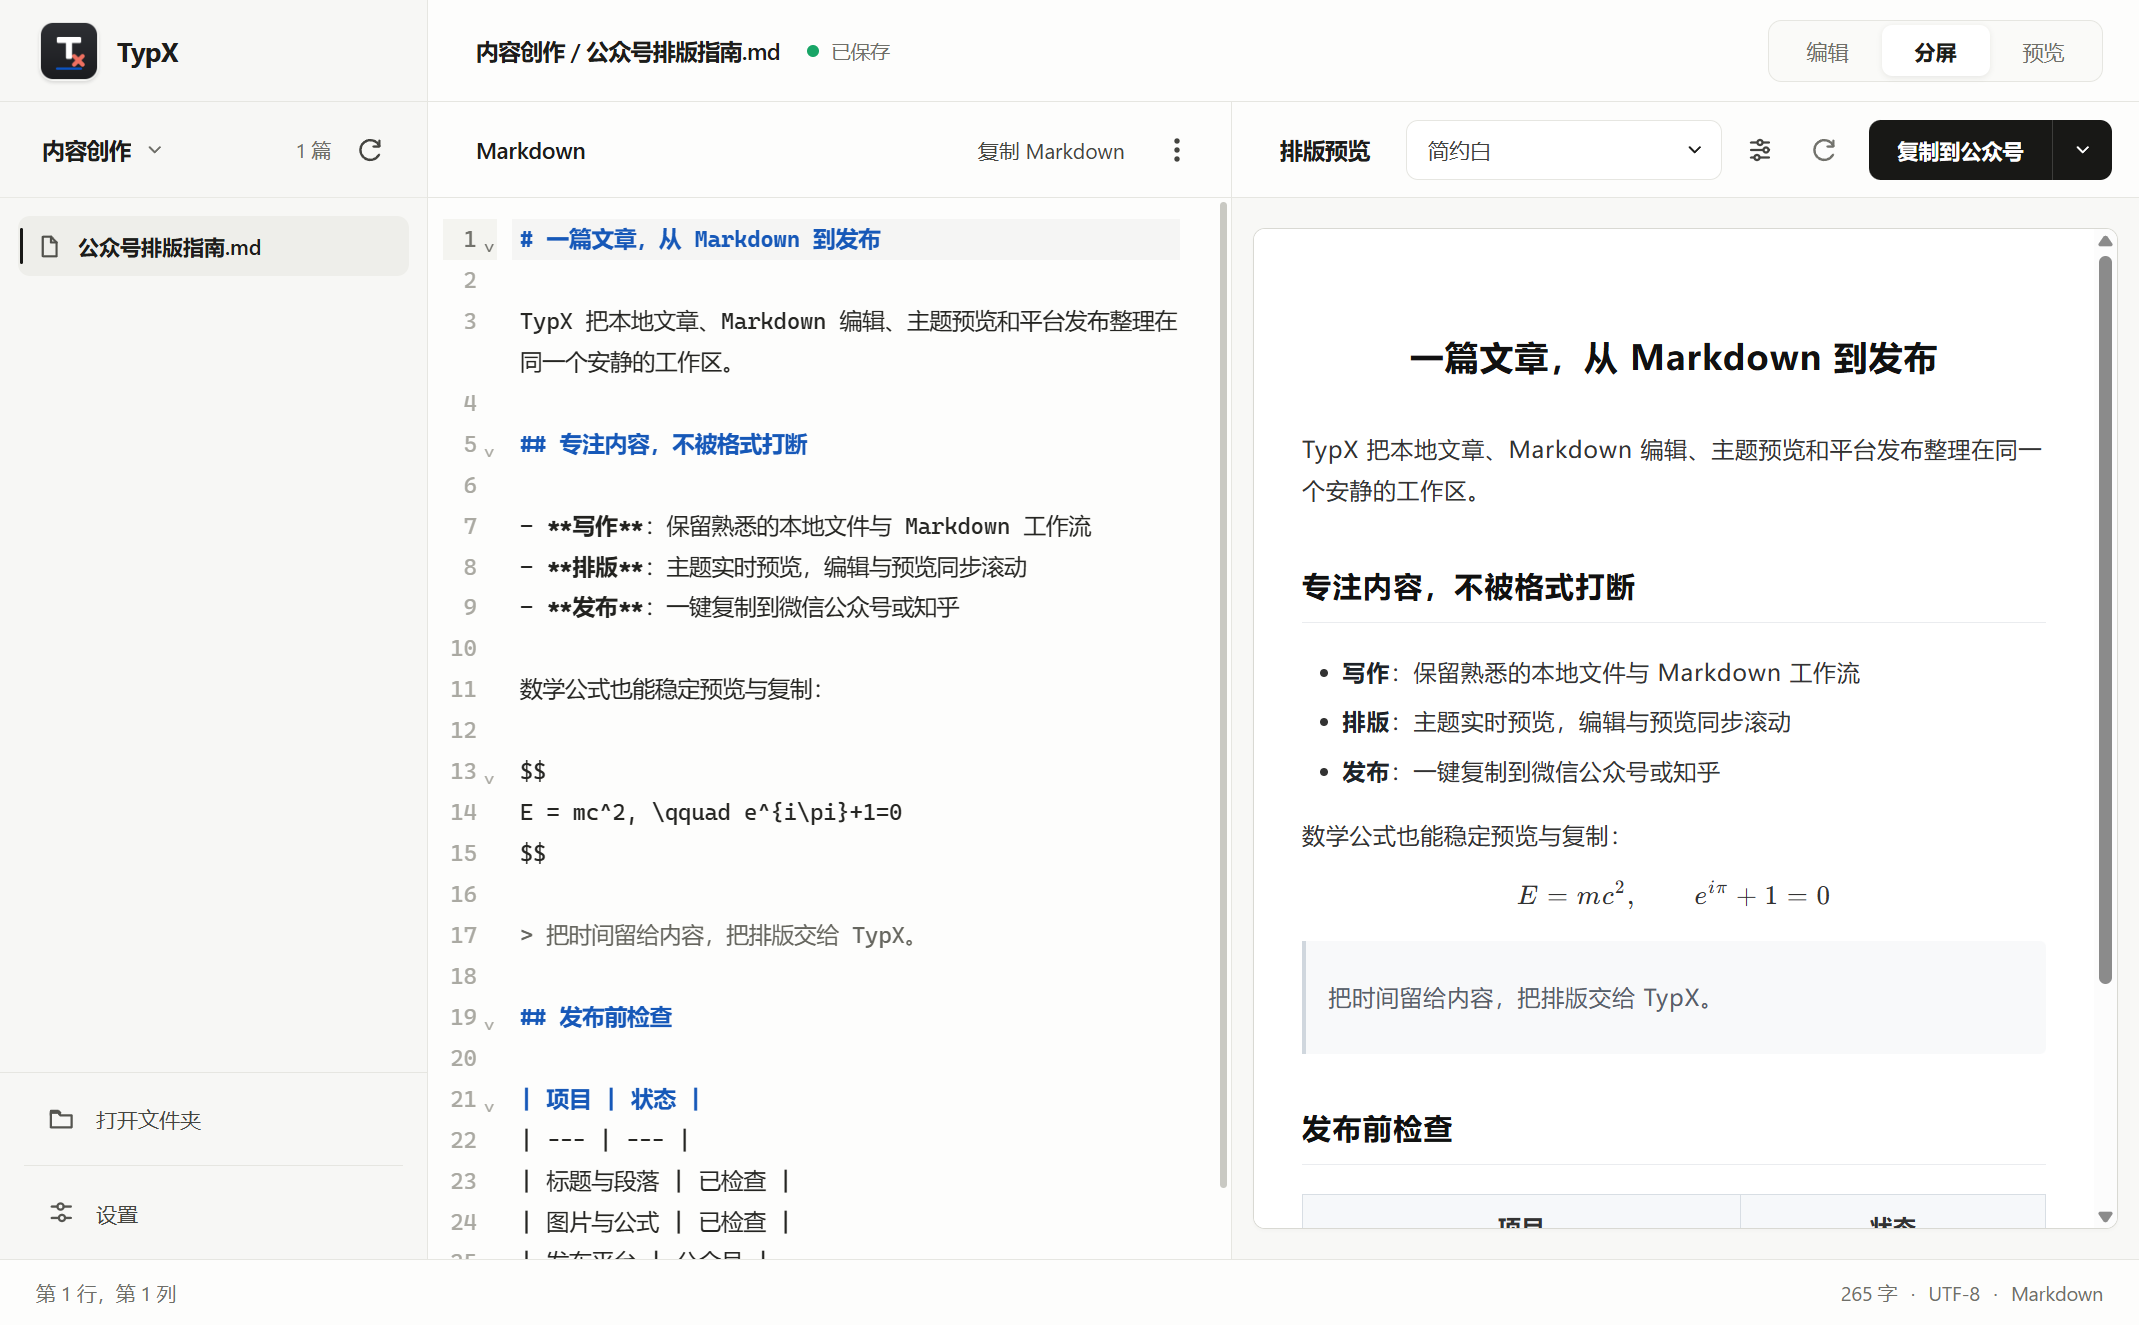
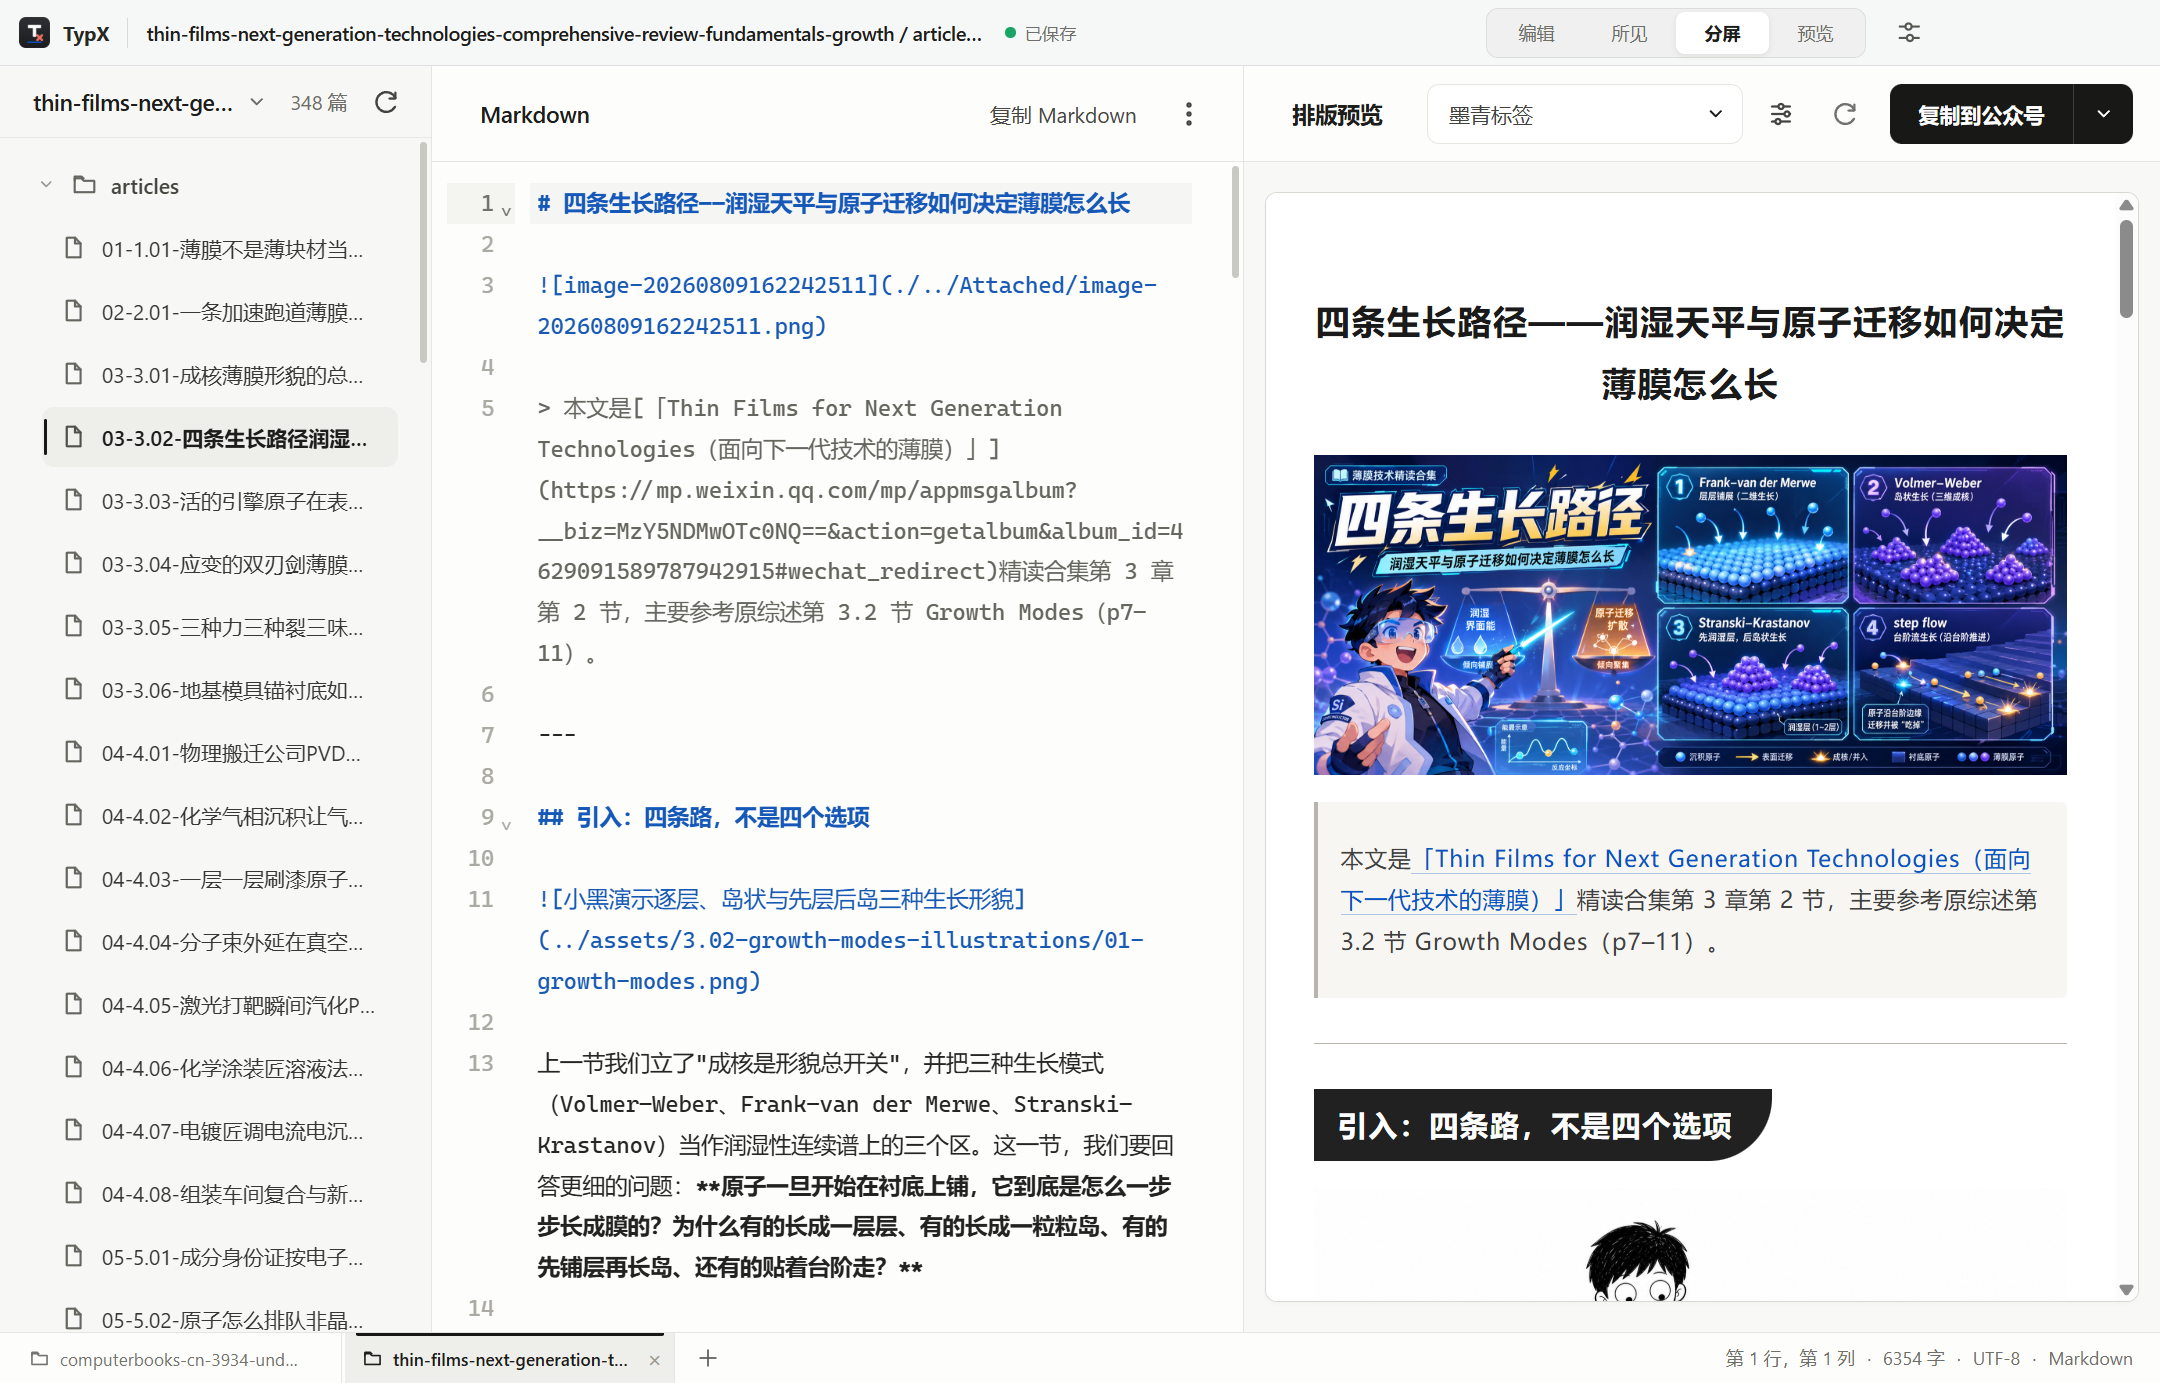
v0.8.0：更新中英双语产品页；同步新版界面与下载入口

diff --git a/README.md b/README.md
@@ -1,110 +1,168 @@
 <p align="center">
-  <a href="https://github.com/LuckyZ10/TypX/releases/tag/v0.7.0">
-    <img src="./images/typx-banner.png" alt="TypX：专注写作，安心排版">
+  <a href="https://github.com/LuckyZ10/TypX/releases/latest">
+    <img src="./images/typx-banner.png" alt="TypX — Focus on writing, publish with confidence">
   </a>
 </p>
 
 <p align="center">
-  为微信公众号写作者打造的本地 Markdown 排版工具
+  <strong>本地 Markdown 写作与微信公众号排版工具</strong><br>
+  <strong>A local-first Markdown editor and publishing tool for WeChat writers</strong>
 </p>
 
 <p align="center">
-  <a href="https://github.com/LuckyZ10/TypX/releases/download/v0.7.0/TypX-Setup-0.7.0.exe"><strong>下载 TypX v0.7.0</strong></a>
+  <a href="#中文">中文</a>
   &nbsp;·&nbsp;
-  <a href="#快速开始">快速开始</a>
-  &nbsp;·&nbsp;
-  <a href="https://github.com/LuckyZ10/TypX/issues">问题反馈</a>
+  <a href="#english">English</a>
 </p>
 
 <p align="center">
-  <a href="https://github.com/LuckyZ10/TypX/releases/tag/v0.7.0"><img src="./images/badge-version.svg" alt="TypX v0.7.0"></a>
-  <img src="https://img.shields.io/badge/Windows-安装版-2563EB?style=flat-square" alt="Windows 安装版">
-  <img src="https://img.shields.io/badge/微信公众号-排版优化-07C160?style=flat-square" alt="微信公众号排版优化">
-  <img src="https://img.shields.io/badge/坚果云-WebDAV-FF6B35?style=flat-square" alt="坚果云 WebDAV">
+  <a href="https://github.com/LuckyZ10/TypX/releases/download/v0.8.0/TypX-Setup-0.8.0.exe"><strong>下载 / Download TypX v0.8.0</strong></a>
+  &nbsp;·&nbsp;
+  <a href="https://github.com/LuckyZ10/TypX/releases/latest">Release Notes</a>
+  &nbsp;·&nbsp;
+  <a href="https://github.com/LuckyZ10/TypX/issues">Issues</a>
+</p>
+
+<p align="center">
+  <a href="https://github.com/LuckyZ10/TypX/releases/tag/v0.8.0"><img src="./images/badge-version.svg" alt="TypX v0.8.0"></a>
+  <img src="https://img.shields.io/badge/Windows-Installer-2563EB?style=flat-square" alt="Windows installer">
+  <img src="https://img.shields.io/badge/WeChat-Optimized-07C160?style=flat-square" alt="WeChat optimized">
+  <img src="https://img.shields.io/badge/Zhihu-Beta-0084FF?style=flat-square" alt="Zhihu Beta">
+  <img src="https://img.shields.io/badge/Nutstore-WebDAV-FF6B35?style=flat-square" alt="Nutstore WebDAV">
 </p>
 
 <p align="center">
   <a href="https://ifdian.net/a/SiliconQuest">
-    <img src="./images/badge-support.svg" width="210" alt="在爱发电支持 TypX">
+    <img src="./images/badge-support.svg" width="230" alt="在爱发电支持 TypX / Support TypX on Afdian">
   </a>
 </p>
 
 ---
 
-## 一篇文章，从 Markdown 到发布
+## 中文
 
-TypX 把本地文章、Markdown 编辑、主题预览和平台发布整理在同一个安静的工作区。左侧管理文章，中间专注写作，右侧实时确认最终效果。
+### 一篇文章，从 Markdown 到发布
 
-[![TypX 主界面：本地文章、Markdown 编辑和排版预览](./images/overview.png)](https://github.com/LuckyZ10/TypX/releases/tag/v0.7.0)
+TypX 把本地文章管理、Markdown 编辑、所见即所得写作、主题预览和平台发布整理在同一个安静的工作区。文章始终保存在你自己的文件夹中，写完即可一键复制到微信公众号。
 
-## 核心功能
+[![TypX 主界面：多项目、本地文章、Markdown 编辑和公众号排版预览](./images/overview.png)](https://github.com/LuckyZ10/TypX/releases/latest)
+
+### 核心功能
 
 | 写作 | 排版 | 发布 |
 | --- | --- | --- |
-| 直接管理本地 Markdown 文件夹 | 多套内置主题与实时预览 | 一键复制到微信公众号 |
-| CodeMirror 编辑器与语法提醒 | 编辑、分屏、预览三种视图 | 知乎复制方案仍在调试 |
-| 自动保存状态与外部修改感知 | 图片、代码、表格与数学公式 | 可复制 Markdown 原文与文件路径 |
+| 本地 Markdown 文件夹与多项目工作区 | 编辑、所见、分屏、预览四种视图 | 一键复制到微信公众号 |
+| 接近 Typora 的所见即所得编辑 | 主题、图片、代码、表格与 KaTeX 公式 | 知乎复制 Beta |
+| 表格行列增删、移动与单元格编辑 | 中文公式与长块公式专项优化 | 自动更新与文件路径复制 |
 
-- **本地项目管理**：打开文件夹即可写作，自动恢复最近项目和文章。
-- **公众号公式优化**：中文、`\text{}`、行内公式与长块公式均经过专门处理。
-- **预览反向定位**：点击预览文字即可回到对应 Markdown 位置并高亮选中。
-- **发布状态标记**：文章可标记为已发布公众号，减少重复发布。
-- **自定义主题**：调整字号、文末内容和 CSS，保存为自己的排版主题。
-- **自动更新**：发现新版本后可在 TypX 内下载并完成更新。
+- **所见即所得写作**：标题、粗体、列表、待办、表格和公式可直接在排版后的内容中编辑。
+- **完整表格操作**：网格插入表格，按单元格编辑，并可新增、删除或移动行列。
+- **实时公式编辑**：块公式提供 KaTeX 实时预览，适合中文技术文章和复杂公式。
+- **多项目工作区**：底部标签切换多个文件夹；关闭标签不会移除项目，项目库可随时重新打开。
+- **公众号排版优化**：专门处理中文公式、`\text{}`、相邻行内公式、列表换行、块公式间距与超长公式。
+- **本地优先**：文章保留在自己的磁盘中，也可按项目连接坚果云 WebDAV。
+- **自动更新**：安装一次后，后续版本可在 TypX 内检查、下载并完成更新。
 
-## 发布，不再反复修格式
+### 发布，不再反复修格式
 
-公众号与 Markdown 共用一个清晰的发布入口。TypX 会针对公众号编辑器处理公式、图片和样式，让预览中的效果尽可能稳定地带到发布平台。知乎复制入口目前仍在调试。
+TypX 会把主题样式内联到文章内容，并针对微信公众号编辑器处理图片和公式，让预览效果尽可能稳定地带到发布页面。微信公众号复制为正式支持功能；知乎复制仍为 Beta，复杂文章发布前请先检查结果。
 
 <p align="center">
-  <img src="./images/publish.png" width="680" alt="TypX 发布菜单与公众号排版预览">
+  <img src="./images/publish.png" width="720" alt="TypX 发布菜单与公众号排版预览">
 </p>
 
-针对中文技术文章，TypX 重点优化了公式中的中文字符、相邻行内公式、列表换行、块公式间距和超长公式展示。
-
-## 本地优先，也能连接坚果云
+### 本地优先，也能连接坚果云
 
 文章始终保留在自己的本地文件夹中。需要跨设备时，可按项目连接坚果云 WebDAV；首次同步采用安全合并，同名且内容不同的文件会保留冲突副本。
 
 <p align="center">
-  <img src="./images/nutstore.png" width="680" alt="TypX 坚果云 WebDAV 同步设置">
+  <img src="./images/nutstore.png" width="720" alt="TypX 坚果云 WebDAV 同步设置">
 </p>
 
-## 快速开始
+### 快速开始
 
-1. 前往 [TypX Releases](https://github.com/LuckyZ10/TypX/releases/tag/v0.7.0)。
-2. 下载 `TypX-Setup-x.x.x.exe`。
-3. 运行安装向导并选择安装目录。
-4. 打开一个存放 Markdown 的文件夹，选择文章后即可编辑和预览。
-5. 在右上角选择公众号，一键复制并粘贴到公众号编辑器。
+1. 下载 [`TypX-Setup-0.8.0.exe`](https://github.com/LuckyZ10/TypX/releases/download/v0.8.0/TypX-Setup-0.8.0.exe)。
+2. 运行安装向导并选择安装目录。
+3. 点击底部 `+`，添加一个存放 Markdown 的文件夹。
+4. 在顶部选择“所见”直接写作，或使用“分屏”同时编辑和预览。
+5. 完成后点击“复制到公众号”，粘贴到公众号编辑器并发布。
 
-<p align="center">
-  <a href="https://github.com/LuckyZ10/TypX/releases/download/v0.7.0/TypX-Setup-0.7.0.exe">
-    <img src="https://img.shields.io/badge/下载-TypX%20v0.7.0-111111?style=for-the-badge&logo=windows11&logoColor=white" alt="下载 TypX v0.7.0">
-  </a>
-</p>
+### v0.8.0 更新亮点
 
-## 支持 TypX
+- 接近 Typora 的“所见”编辑模式
+- 表格网格插入、单元格编辑及行列增删移动
+- 待办和块公式右键插入，KaTeX 块公式实时编辑
+- 统一窗口顶栏与更简洁的桌面布局
+- 多项目标签、持久项目库以及清晰的关闭/移除逻辑
 
-TypX 由独立开发者持续维护。如果它帮助你减少了排版时间，欢迎通过爱发电支持后续功能开发、兼容性测试和版本维护。赞助完全自愿，不等同于购买软件或功能授权。
+### 支持 TypX
 
-<p align="center">
-  <a href="https://ifdian.net/a/SiliconQuest">
-    <img src="./images/badge-support.svg" width="210" alt="在爱发电支持 TypX">
-  </a>
-</p>
-
-## v0.7.0
-
-- 全新整理的桌面界面和操作层级
-- 坚果云 WebDAV 项目同步
-- 自动检查更新与手动检查入口
-- Markdown 语法提醒、文件路径复制和发布状态标记
-- 预览点击定位与清晰的编辑器选区高亮
-- 公众号中文公式、列表换行、长公式和段落间距优化
-
-如遇到问题或有功能建议，欢迎在 [Issues](https://github.com/LuckyZ10/TypX/issues) 中反馈。
+TypX 由独立开发者持续维护。如果它帮助你减少了排版时间，欢迎通过[爱发电](https://ifdian.net/a/SiliconQuest)支持后续功能开发、兼容性测试和版本维护。赞助完全自愿，不等同于购买软件授权或售后服务。
 
 ---
 
-<p align="center">把时间留给内容，把排版交给 TypX。</p>
+## English
+
+### From Markdown to publishing, in one workspace
+
+TypX combines local article management, Markdown editing, WYSIWYG writing, theme preview, and platform-ready copying in a focused desktop workspace. Your articles stay in your own folders, and finished content can be copied directly to the WeChat Official Account editor.
+
+[![TypX workspace with multiple projects, Markdown editing, and publishing preview](./images/overview.png)](https://github.com/LuckyZ10/TypX/releases/latest)
+
+### Highlights
+
+| Writing | Formatting | Publishing |
+| --- | --- | --- |
+| Local Markdown folders and multi-project tabs | Edit, WYSIWYG, split, and preview modes | One-click copy for WeChat Official Accounts |
+| Typora-inspired WYSIWYG editing | Themes, images, code, tables, and KaTeX | Zhihu copy pipeline in Beta |
+| Full table row and column operations | Optimized Chinese and long equations | In-app updates and path copying |
+
+- **WYSIWYG editing** — Edit headings, emphasis, lists, tasks, tables, and formulas directly in the rendered document.
+- **Complete table tools** — Insert tables from a grid, edit individual cells, and add, remove, or move rows and columns.
+- **Live math editing** — Block formulas include real-time KaTeX preview for technical writing and complex equations.
+- **Multi-project workspace** — Switch folders from bottom tabs. Closing a tab keeps the project available in the persistent project library.
+- **WeChat-ready formatting** — Special handling for Chinese formulas, `\text{}`, adjacent inline math, list wrapping, equation spacing, and long display equations.
+- **Local-first storage** — Files remain on your disk. Nutstore WebDAV can be enabled per project when cross-device sync is needed.
+- **In-app updates** — After the initial installation, future releases can be checked, downloaded, and installed from inside TypX.
+
+### Reliable WeChat publishing
+
+TypX inlines theme styles and adapts images and formulas for the WeChat editor so that the published result stays close to the preview. WeChat publishing is fully supported. Zhihu publishing remains in Beta; please review complex articles before publishing.
+
+<p align="center">
+  <img src="./images/publish.png" width="720" alt="TypX publishing menu and WeChat preview">
+</p>
+
+### Local-first, with optional Nutstore sync
+
+Your articles stay in local folders you control. For cross-device workflows, connect a project through Nutstore WebDAV. The first sync uses safe merging and preserves conflict copies when files with the same name differ.
+
+<p align="center">
+  <img src="./images/nutstore.png" width="720" alt="TypX Nutstore WebDAV settings">
+</p>
+
+### Quick start
+
+1. Download [`TypX-Setup-0.8.0.exe`](https://github.com/LuckyZ10/TypX/releases/download/v0.8.0/TypX-Setup-0.8.0.exe).
+2. Run the installer and choose an installation directory.
+3. Click `+` in the bottom bar and add a folder containing Markdown files.
+4. Choose **WYSIWYG** for direct editing, or **Split** to edit and preview side by side.
+5. Click **Copy to WeChat**, paste into the WeChat editor, review, and publish.
+
+### What's new in v0.8.0
+
+- Typora-inspired WYSIWYG editing
+- Grid-based table insertion, cell editing, and full row/column operations
+- Context-menu insertion for tasks and display math, with live KaTeX block editing
+- Unified window title bar and a cleaner desktop layout
+- Multi-project tabs, a persistent project library, and predictable close/remove behavior
+
+### Support TypX
+
+TypX is maintained by an independent developer. If it saves you publishing time, you can support continued development, compatibility testing, and maintenance on [Afdian](https://ifdian.net/a/SiliconQuest). Sponsorship is entirely optional and does not represent a software license or support contract.
+
+---
+
+Questions and feature requests are welcome in [GitHub Issues](https://github.com/LuckyZ10/TypX/issues).
+
+<p align="center"><strong>把时间留给内容，把排版交给 TypX。</strong><br>Focus on your content. Let TypX handle the formatting.</p>
